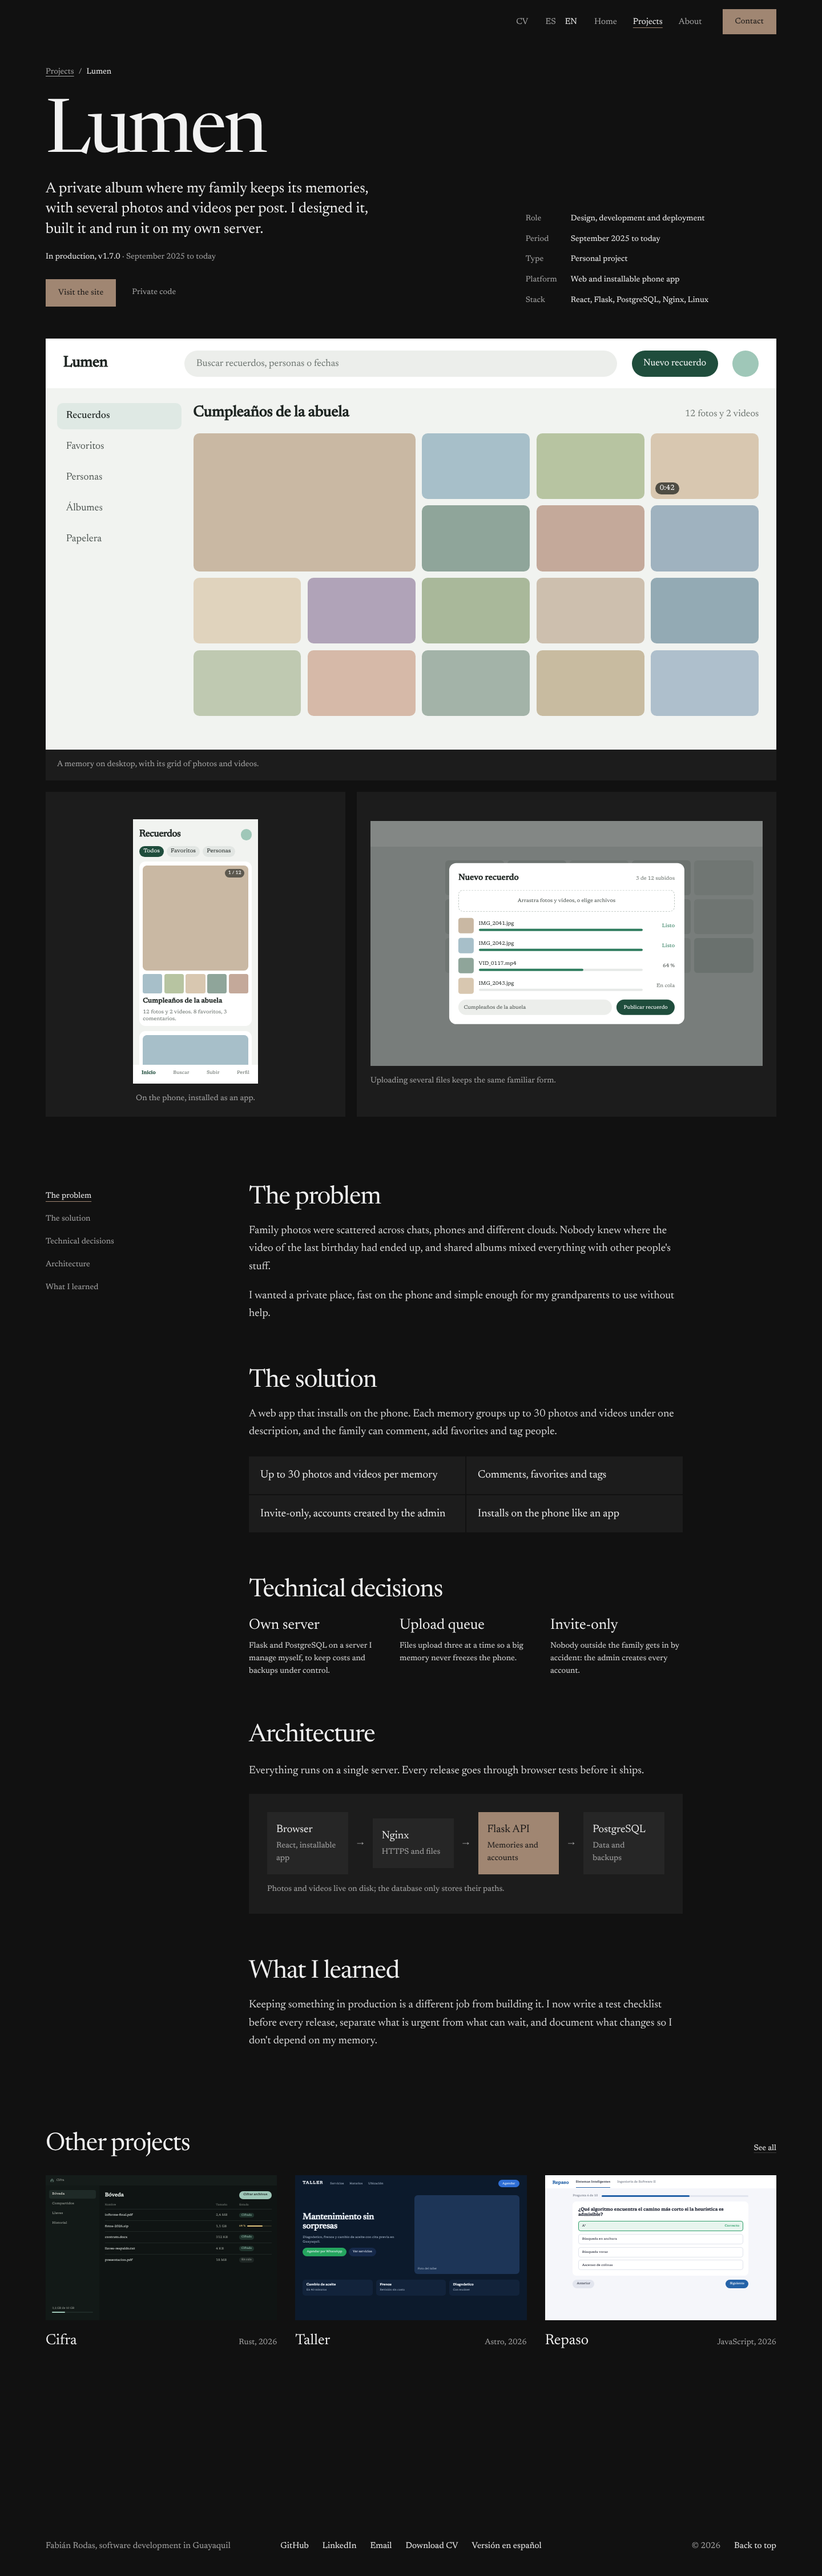
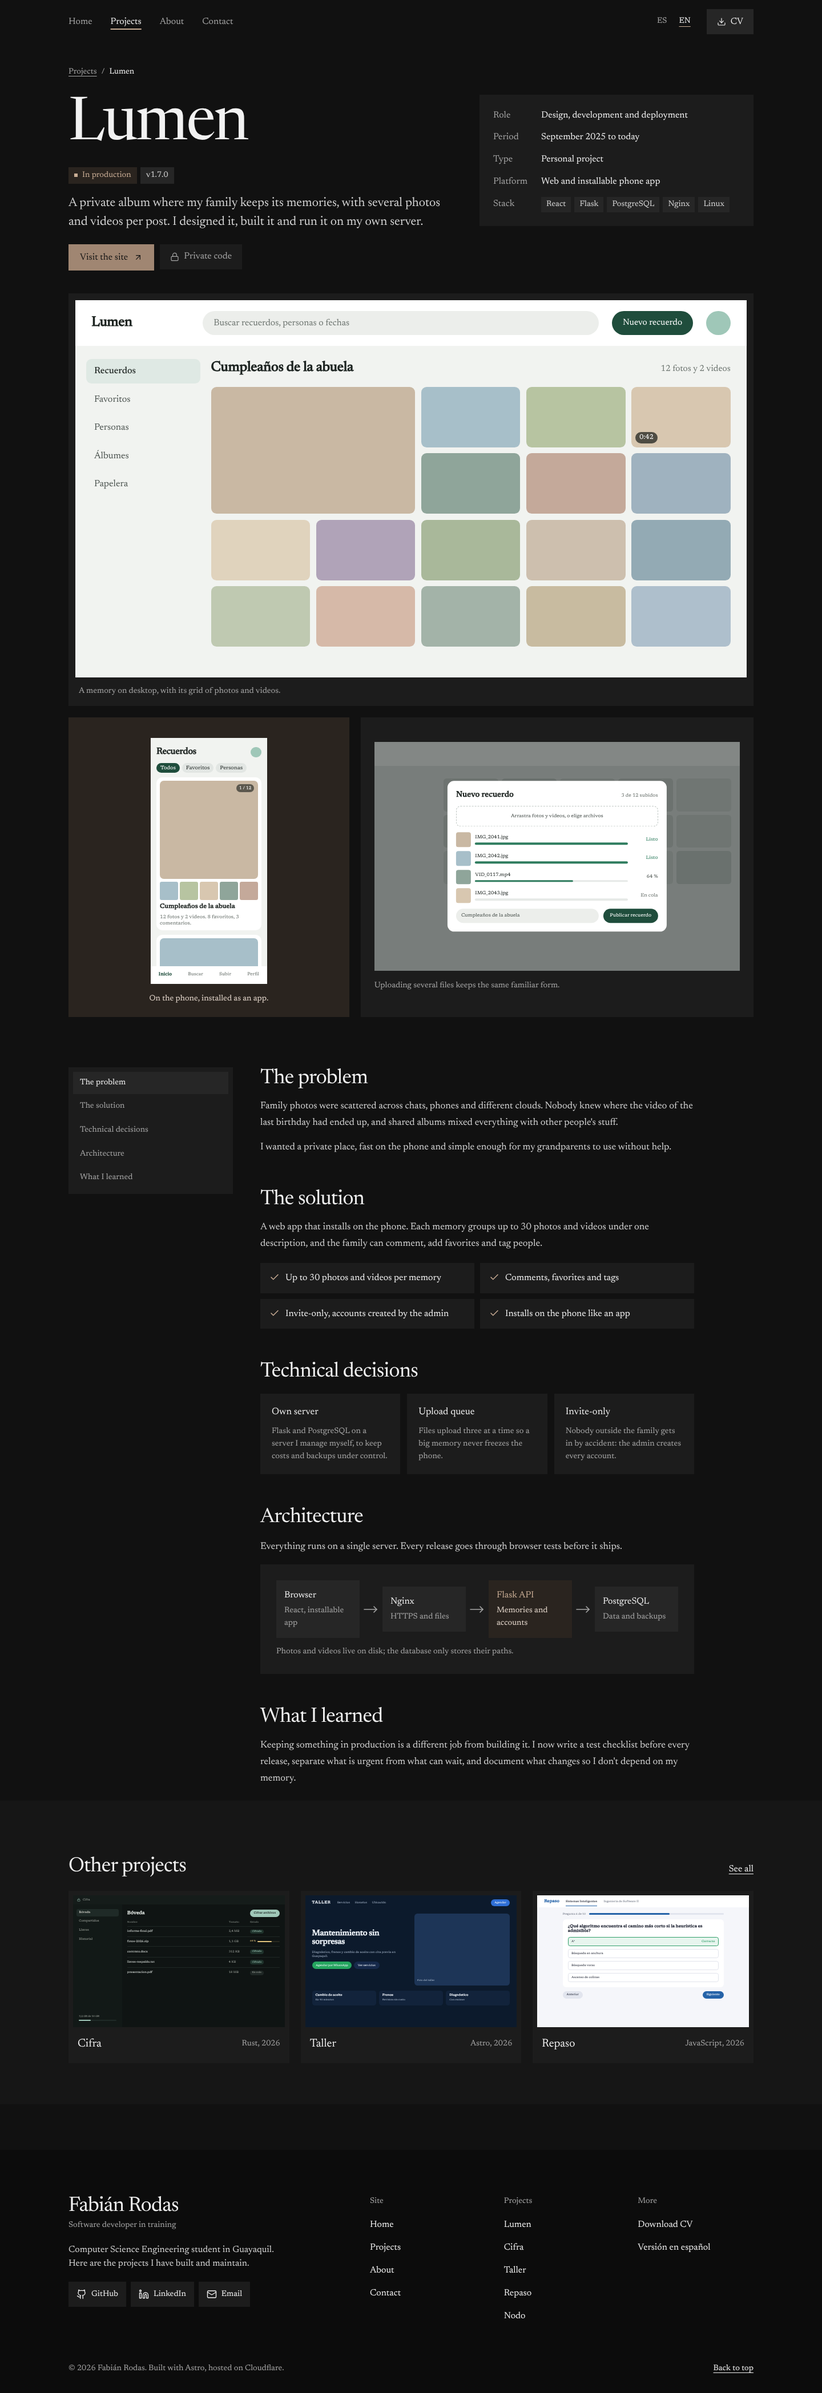
fix: Puerta de taste-skill y ui-ux-pro-max, imagen para redes, docs y capturas
Estados debajo del título, capturas dibujadas marcadas como interfaz, textos
de al menos 14 px, entradas por sección y texto bronce con contraste AA.

Claude-Session: https://claude.ai/code/session_01P25f2q1FU6c4eH67GAYuLX

diff --git a/src/lib/sitio.ts b/src/lib/sitio.ts
@@ -9,7 +9,5 @@ export const sitio = {
   linkedinTexto: 'in/fabianrodas',
   cv: '/cv/fabian-rodas-cv.pdf',
   url: 'https://fabianrodas.com',
-  /** Foto del hero: idealmente PNG o WebP SIN fondo (transparente), vertical, ~1000 px de alto. */
-  retrato: { src: '/img/retrato.webp', width: 800, height: 1000 },
 } as const;
 

diff --git a/docs/REPORTE-FINAL.md b/docs/REPORTE-FINAL.md
@@ -1,6 +1,6 @@
 # Reporte final
 
-> **Rediseño "Sala oscura" (octubre de 2026):** todo el sitio pasó a una dirección oscura con Newsreader, sin píldoras, cristal, iconos ni franjas; el inicio tiene la foto con el nombre cruzándola, proyectos como nombres grandes y la hora de Guayaquil en el contacto. La foto es de ejemplo (avatar de GitHub). Detalle en `docs/DECISIONES-IMPLEMENTACION.md` (decisiones 40 a 49) y abajo, en "Sala oscura".
+> **Estructura anterior con estilo Sala oscura (23 de octubre de 2026):** el sitio volvió al diseño anterior (hero con retrato, tarjetas de proyectos, banda de contacto, pie en columnas) con la paleta negro y bronce, Newsreader y esquinas rectas, sin píldoras de cristal, "FR" ni marquee, y con fotos HD de ejemplo. Detalle en `docs/DECISIONES-IMPLEMENTACION.md` (decisiones 50 a 55). La versión Sala oscura con nombres grandes (decisiones 40 a 49) se descartó.
 
 ## Resultado
 
@@ -22,11 +22,13 @@ Ya no se mide: desde el rediseño Sala oscura el sitio deja de parecerse a los a
 | Ruta | Modo | Performance | Accessibility | Best Practices | SEO |
 |---|---|---|---|---|---|
 | `/` | móvil | 99 | 100 | 100 | 100 |
-| `/` | escritorio | 100 | 96 | 100 | 100 |
+| `/` | escritorio | 100 | 100 | 100 | 100 |
 | `/proyectos/` | móvil | 100 | 96 | 100 | 100 |
 | `/proyectos/` | escritorio | 100 | 96 | 100 | 100 |
 | `/sobre-mi/` | móvil | 99 | 100 | 100 | 100 |
 | `/sobre-mi/` | escritorio | 100 | 100 | 100 | 100 |
+| `/contacto/` | móvil | 100 | 100 | 100 | 100 |
+| `/contacto/` | escritorio | 100 | 100 | 100 | 100 |
 
 Accessibility no llega a 100 solo por el texto diminuto dentro de los mockups dibujados (réplica exacta del diseño). Se resuelve solo al usar capturas reales.
 
@@ -60,34 +62,21 @@ El despliegue en Cloudflare Pages y la conexión de fabianrodas.com están expli
 
 ## Qué falta que reemplaces
 
-0. **Tus fotos**: hoy se usa tu avatar de GitHub como ejemplo. Ver "Poner tus fotos" en el README.
+0. **Tus fotos**: hoy se usan fotos HD de ejemplo. Ver "Poner tus fotos" en el README.
 1. **Proyectos reales**: edita o borra los archivos de `src/content/proyectos/{es,en}/`.
 2. **Capturas reales**: cambia `cover: lumen` (y los de `case.gallery`) por `{ src, alt, width, height }` con imágenes en `public/img/`. Ver el README.
-3. **Fotos de Sobre mí**: las tres de "Fuera del código" (`public/img/fuera-*.webp`).
+3. **Fotos de Sobre mí**: las tres de "Fuera del código" (`src/assets/fotos/`).
 4. **Datos de contacto**: `src/lib/sitio.ts` (email `hola@fabianrodas.com`, LinkedIn y GitHub de ejemplo).
 5. **CV**: reemplaza `public/cv/fabian-rodas-cv.pdf` (hoy es un PDF de una página que dice que es de ejemplo).
-6. **Los textos del inicio** (frase del hero, datos de Sobre mí, tarjeta de contacto) y los de la página Sobre mí (experiencia, educación, certificados), que están en `src/views/Inicio.astro` y `src/views/SobreMi.astro`.
+6. **Los textos del inicio** (presentación del hero, Sobre mí breve, banda de contacto) y los de la página Sobre mí (experiencia, educación, certificados), que están en `src/views/Inicio.astro` y `src/views/SobreMi.astro`.
 7. **Endpoint del formulario**: define `PUBLIC_FORM_ENDPOINT` en Cloudflare si no quieres depender del `mailto:`.
 8. **Enlaces de ejemplo** de los proyectos (`lumen.fabianrodas.com`, `taller.example.com`, `repaso.example.com` y los repos de GitHub).
 9. Regenerar `public/og.png` con `npm run og` cuando cambies la foto o la frase.
 10. Opcional: Erode en lugar de Newsreader (ver "Tipografía" en el README).
 
-## Sala oscura: verificación con taste-skill
+## Verificación con taste-skill y ui-ux-pro-max
 
-- `lint.mjs src`: 0 FAIL, 0 WARN.
-- `inspect.mjs` a 1440, 768 y 390 px: 0 FAIL en inicio, proyectos, caso de Lumen y Sobre mí. Contacto mantiene `few-pictures` (una sola foto; decisión 49).
-- Avisos que se defienden: contraste bajo y texto diminuto dentro de los mockups de capturas (se van con capturas reales); "font-not-dealt" (Newsreader en lugar de Erode, decisión 41); sin video (no hay material); márgenes desiguales que vienen del borde irregular del texto, no del contenedor.
-
-```
-ROUND 1
-Seen in one second: la foto de Fabián y "fabián rodas" en grande cruzándola.
-Idea (one sentence): una sala oscura donde la persona y sus proyectos son las piezas iluminadas.
-Live thing: la hora actual de Guayaquil y si responde hoy o mañana.
-Layout words by section: hero=foto inset con nombre que cruza / proyectos=índice de nombres con vista fija / sobre mí=datos al lado y párrafo / contacto=reloj y tarjeta / pie=una línea
-Scores: design 7 · usability 8 · creativity 7 · content 7 → overall 7.3.
-Caps applied: menos de cuatro fotos reales en el inicio (design ≤ 6.5 hasta tener fotos reales; el retrato es el avatar de GitHub).
-Top three problems (most visible first), each with the screenshot it shows in and the fix:
-1. El retrato es un avatar de baja resolución (inicio-es-1440, sobre-mi-es-1440): reemplazar por una foto vertical de unos 1000 px.
-2. Las capturas de proyectos son mockups dibujados con colores planos (proyectos-es-1440): reemplazar por capturas reales.
-3. Fuera del código repite la misma foto en tres recortes (sobre-mi-es-1440): usar fotos distintas.
-```
+- `lint.mjs src`: 0 FAIL.
+- `inspect.mjs` a 1440, 768 y 390 px: 0 FAIL en Proyectos, el caso de Lumen y Sobre mí. Excepciones defendidas (decisión 55): el botón "Ver los 8 proyectos" en la cabecera de la sección del inicio y una sola foto en Contacto.
+- Checklist de ui-ux-pro-max: contraste ≥ 4,5:1 (texto bronce en `#c9ad95`), foco visible de 2 px, objetivos táctiles de 44 px, sin scroll horizontal de 390 a 1440 px, imágenes WebP con `srcset` y espacio reservado, y `prefers-reduced-motion` respetado.
+- Avisos que se defienden: texto diminuto y de bajo contraste dentro de las capturas dibujadas (se van con capturas reales) y Newsreader en lugar de Erode.

diff --git a/docs/DECISIONES-IMPLEMENTACION.md b/docs/DECISIONES-IMPLEMENTACION.md
@@ -74,3 +74,14 @@ Diseño completo en `docs/superpowers/specs/2026-10-22-sala-oscura-design.md` y 
 47. **Páginas internas:** conservan su estructura y su funcionamiento (filtros con `aria-pressed`, buscador, formulario, índice lateral y copiar). Los títulos de página van al tamaño del nombre para que haya un elemento dominante; los campos del formulario usan una línea inferior de 2 px.
 48. **Pruebas:** se quitaron las comparaciones píxel a píxel con los artboards (el diseño ya no se parece a ellos a propósito), junto con `tests/servidor-artboards.mjs`, `pixelmatch` y `pngjs`. Se agregaron dos pruebas de la hora de Guayaquil con un reloj fijo.
 49. **Excepción defendida de taste-skill:** Contacto tiene una sola foto (`few-pictures` pide cuatro). No hay más fotos reales de Fabián ni de Guayaquil; se completa cuando lleguen. El campo trampa del formulario lleva `taste-skill-ignore` porque su `height: 1px` no es una línea.
+
+### Estructura anterior con el estilo Sala oscura (23 de octubre de 2026)
+
+Diseño en `docs/superpowers/specs/2026-10-23-anterior-con-sala-oscura-design.md`. Reemplaza las decisiones 43, 44 y 46.
+
+50. **Vuelve la estructura anterior:** hero en dos columnas con el retrato, proyectos destacados en una banda (tarjeta grande y cuatro tarjetas), banda de contacto y pie en columnas. Las páginas internas recuperan su estructura de antes (filtros con fondo de tono, tarjetas, canales de contacto, Qué hago, experiencia y certificados en paneles).
+51. **Con el estilo de Sala oscura:** paleta negro y bronce, Newsreader en todo el sitio y esquinas rectas. Las etiquetas son rectángulos de tono (no píldoras); las tarjetas son paneles de un escalón de tono, sin bordes de luz, sombras ni spotlight; la banda es un tono a todo el ancho, sin gradiente. Para texto en bronce se usa `#c9ad95` (contraste ≥ 4,5:1 sobre las superficies); el bronce `#a08672` queda para fondos de botón.
+52. **Correcciones que se mantienen:** sin la píldora "Ahora: Lumen v1.8", sin el monograma "FR" (barra, pie y banda de contacto), sin marquee, sin aurora ni grano, y el nombre del hero en Newsreader en lugar de Bricolage en contorno. La barra queda sin logo: la navegación a la izquierda y ES/EN y CV a la derecha.
+53. **Inicio:** el retrato recortado sale de un panel de tono (el panel crece y la foto se revela de abajo hacia arriba); se agregó un "Sobre mí" breve con dos fotos, y la banda de contacto muestra la hora de Guayaquil y si respondo hoy o mañana.
+54. **Fotos HD de ejemplo:** de las plantillas MIT de StartBootstrap (fotos de Unsplash). Desde aquí solo se puede descargar de GitHub. Se sirven con `astro:assets` en WebP y varios anchos (`src/lib/fotos.ts`). Se quitaron el avatar de GitHub y sus recortes.
+55. **taste-skill:** las capturas dibujadas llevan `data-ui` (son fragmentos de interfaz); los estados van debajo del título; los textos tienen al menos 14 px. Excepciones defendidas: en el inicio, el botón "Ver los 8 proyectos" queda en la cabecera de la sección, como en el diseño anterior (el inspector lo lee como rótulo sobre "Lumen"); Contacto tiene una sola foto.

diff --git a/README.md b/README.md
@@ -91,11 +91,15 @@ Campos opcionales extra: `homeSummary`, `label`, `tags`, `homeTags`, `period`, `
 
 ## Poner tus fotos
 
-Hoy el sitio usa como foto de ejemplo tu avatar de GitHub (`public/img/retrato.webp`, 800 × 1000) y tres recortes de esa misma foto en "Fuera del código" (`public/img/fuera-1.webp` a `fuera-3.webp`). Para cambiarlas:
+Hoy el sitio usa fotos de ejemplo en HD, tomadas de plantillas con licencia MIT de StartBootstrap (originalmente de Unsplash). Están en `src/assets/fotos/` y `astro:assets` las convierte a WebP en varios anchos. Para cambiarlas, reemplaza cada archivo por el tuyo con el mismo nombre (o cambia el import en `src/lib/fotos.ts`) y ajusta el texto alternativo en ese mismo archivo:
 
-1. **Retrato** (hero del inicio, Sobre mí, Contacto y la imagen para redes): una foto vertical 4:5, de unos 1000 px de alto. Puede tener fondo; va sobre la superficie oscura. Guárdala como `public/img/retrato.webp` con las mismas medidas, o cambia `retrato` en `src/lib/sitio.ts` por `{ src, width, height }` con las medidas reales.
-2. **Fuera del código**: reemplaza `public/img/fuera-1.webp` (4:3), `fuera-2.webp` (4:5) y `fuera-3.webp` (1:1), y los textos `foto` y `pie` en `src/views/SobreMi.astro`.
-3. Vuelve a generar la imagen para redes con `npm run og`.
+| Archivo | Dónde sale | Recomendación |
+|---|---|---|
+| `retrato.png` | Hero del inicio, Sobre mí, banda de contacto e imagen para redes | Vertical, **sin fondo (PNG transparente)**, de medio cuerpo, unos 1000 px de alto |
+| `escritorio.jpg`, `codigo.jpg` | "Sobre mí" del inicio | Horizontal y vertical, 1600 px o más |
+| `camara.jpg`, `niebla.jpg`, `libreta.jpg` | "Fuera del código" en Sobre mí (`libreta` también en Contacto) | Horizontales, 1600 px o más |
+
+Después vuelve a generar la imagen para redes con `npm run og`.
 
 ## Tipografía
 

diff --git a/docs/superpowers/specs/2026-10-22-sala-oscura-design.md b/docs/superpowers/specs/2026-10-22-sala-oscura-design.md
@@ -1,6 +1,6 @@
 # Diseño: rediseño "Sala oscura"
 
-Fecha: 2026-10-22 · Estado: **aprobado (dirección elegida por Fabián)**
+Fecha: 2026-10-22 · Estado: **reemplazado** por `2026-10-23-anterior-con-sala-oscura-design.md` (la versión con nombres grandes no gustó)
 
 ## Intención
 
